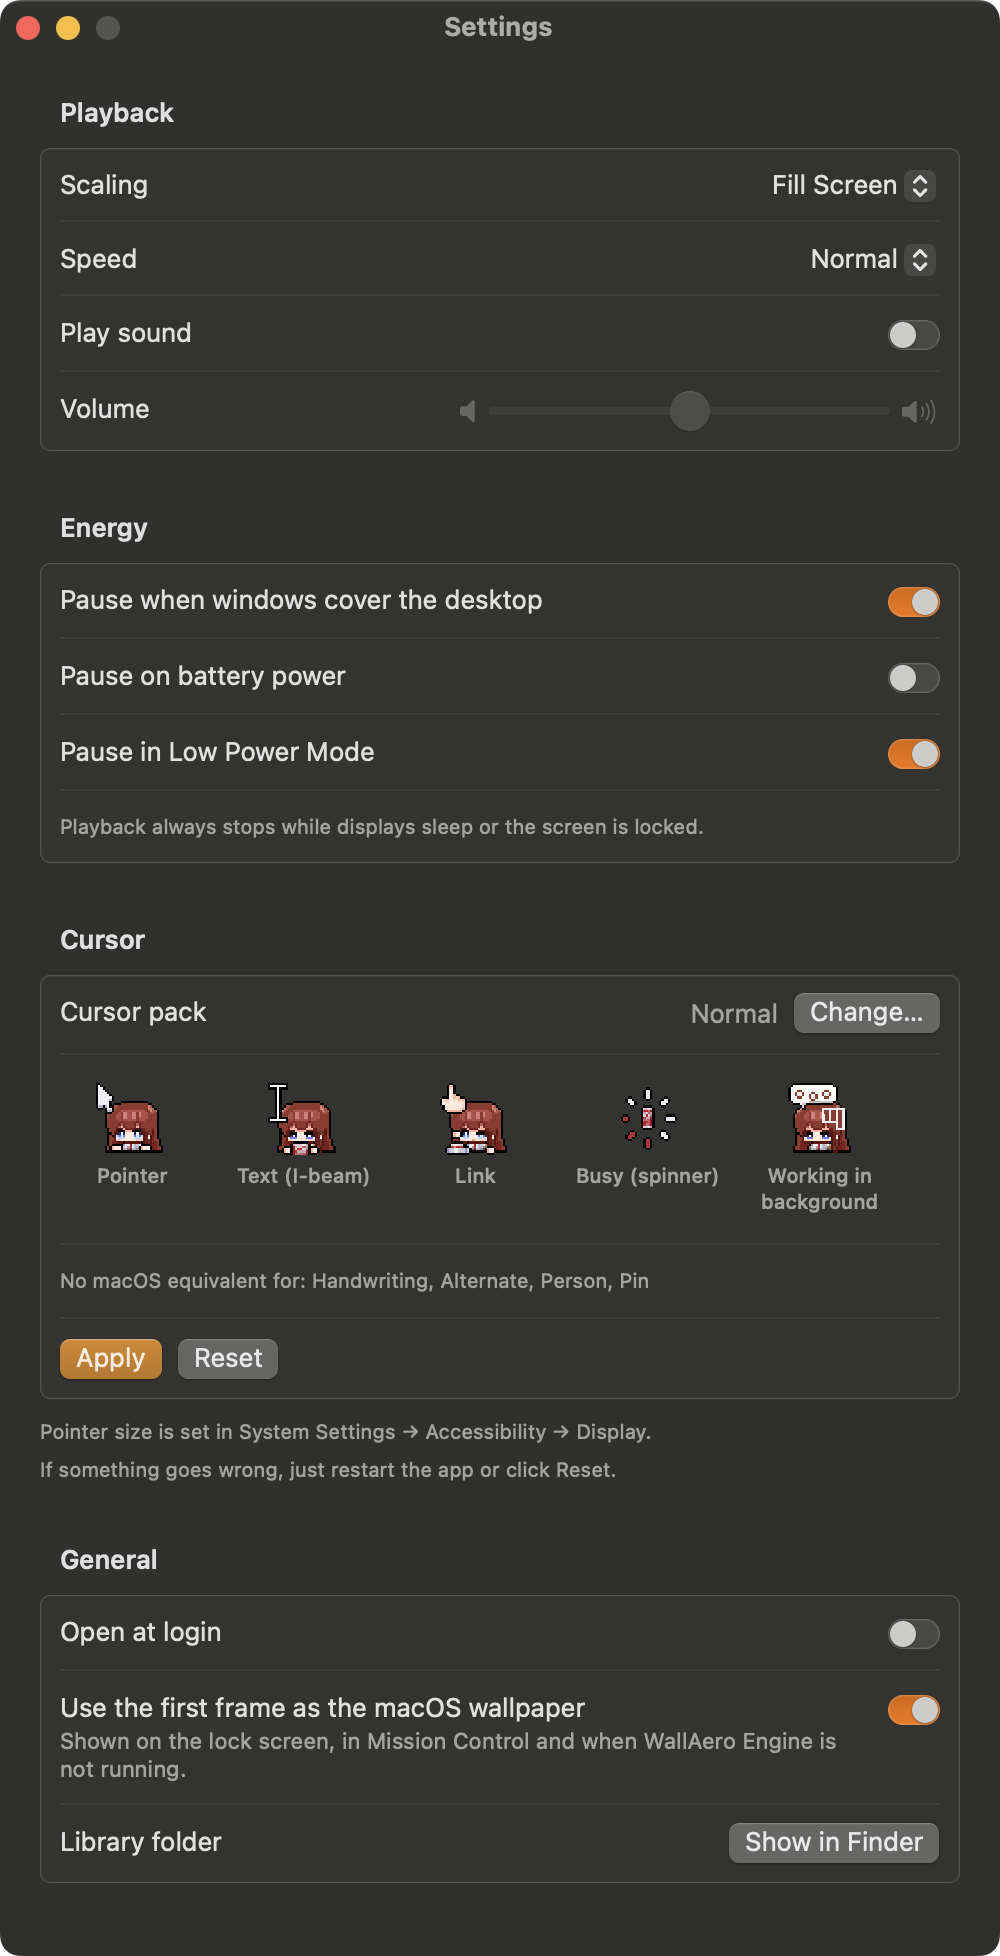
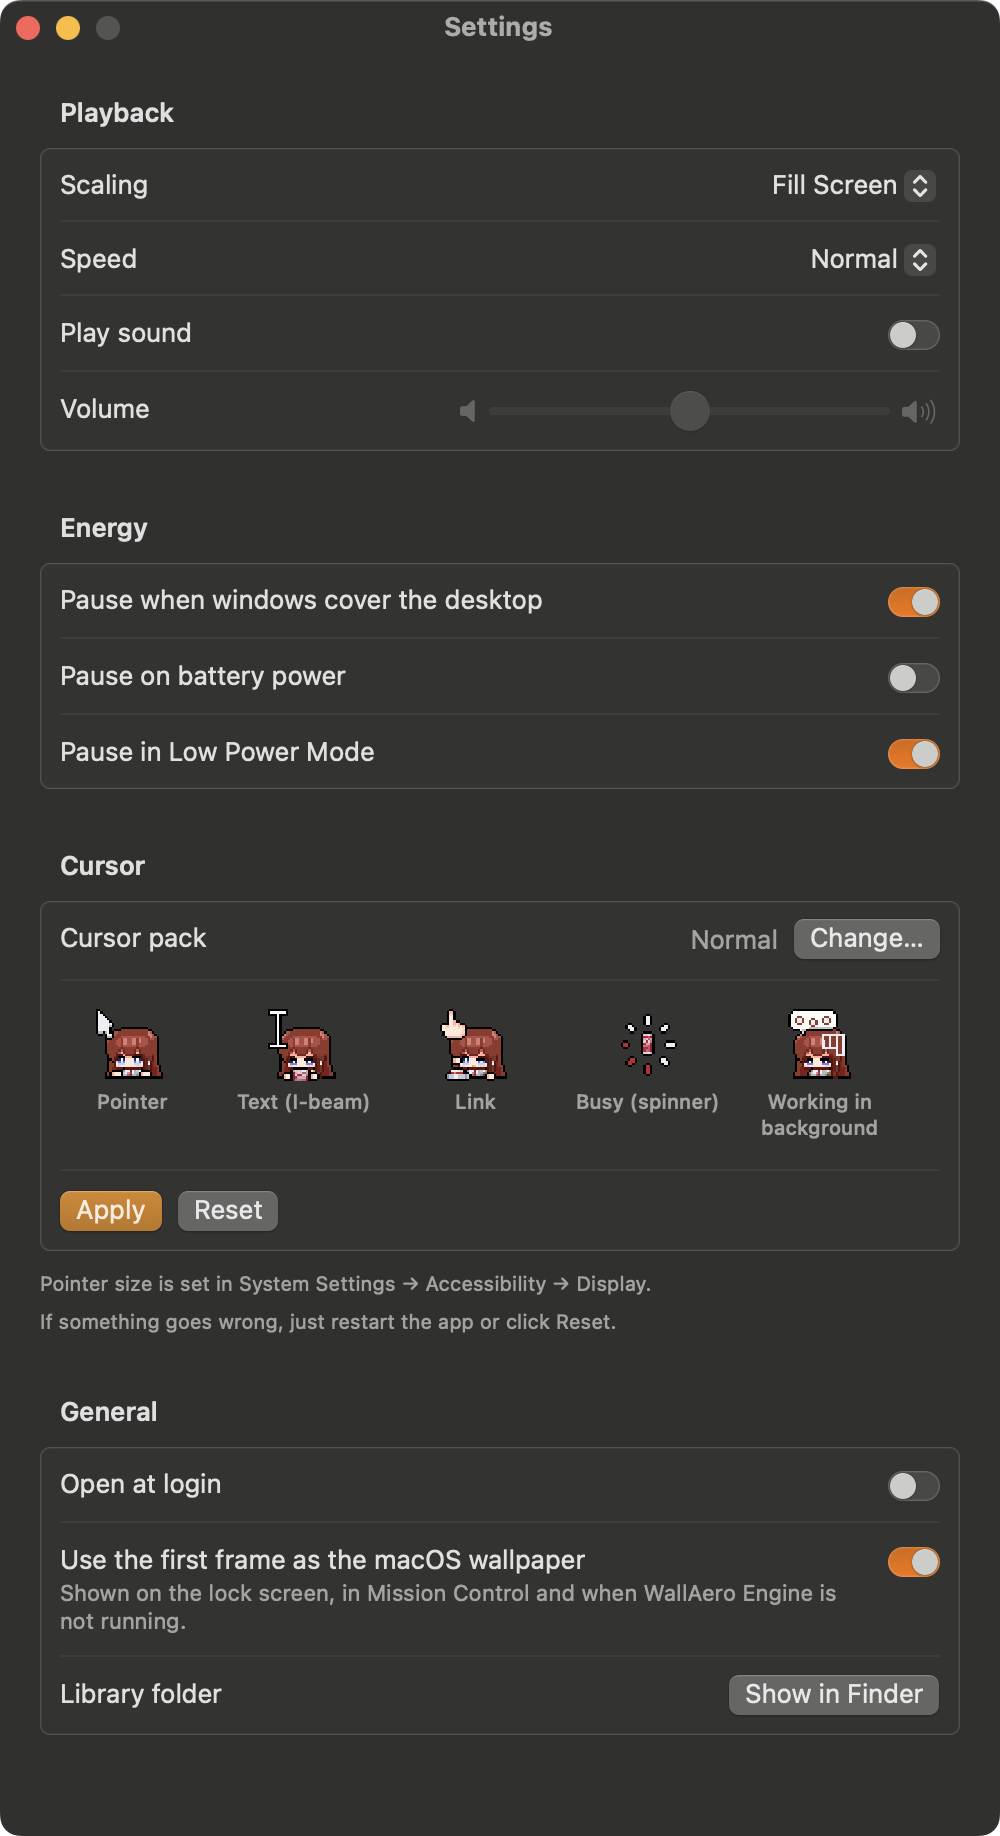
Remove two hints from the settings
- The "No macOS equivalent for: …" line under the cursor preview and
  the note that playback always stops while displays sleep or the
  screen is locked; their strings and the now unused property go too
- README and screenshots follow

diff --git a/Sources/WallAeroEngine/UI/SettingsView.swift b/Sources/WallAeroEngine/UI/SettingsView.swift
@@ -38,10 +38,6 @@ struct SettingsView: View {
                 Toggle("Pause when windows cover the desktop", isOn: $preferences.pauseWhenCovered)
                 Toggle("Pause on battery power", isOn: $preferences.pauseOnBattery)
                 Toggle("Pause in Low Power Mode", isOn: $preferences.pauseInLowPowerMode)
-                // Inside the group, under the toggles: a grouped form's footer sits off to the right.
-                Text("Playback always stops while displays sleep or the screen is locked.")
-                    .font(.caption)
-                    .foregroundStyle(.secondary)
             }
 
             CursorSettingsSection()

diff --git a/Sources/WallAeroEngine/UI/CursorSettingsView.swift b/Sources/WallAeroEngine/UI/CursorSettingsView.swift
@@ -110,13 +110,6 @@ struct CursorSettingsSection: View {
                     .padding(.vertical, 4)
                 }
 
-                if !cursor.unmatchedNames.isEmpty {
-                    Text(String(format: NSLocalizedString("No macOS equivalent for: %@", comment: "Cursor settings"),
-                                cursor.unmatchedNames.joined(separator: ", ")))
-                        .font(.caption)
-                        .foregroundStyle(.secondary)
-                }
-
                 HStack {
                     Button("Apply", action: cursor.apply)
                         .buttonStyle(.borderedProminent)

diff --git a/Sources/WallAeroEngine/CursorSettings.swift b/Sources/WallAeroEngine/CursorSettings.swift
@@ -57,10 +57,6 @@ final class CursorSettings: ObservableObject {
 
     var mappedCount: Int { theme?.assignments.count ?? 0 }
 
-    var unmatchedNames: [String] {
-        (theme?.unmatchedFiles ?? []).map { $0.deletingPathExtension().lastPathComponent }
-    }
-
     /// Builds the animated previews, once per loaded pack. One cursor file can theme several
     /// macOS roles (all the resize variants, say); it is shown once, under its main role.
     private static func makePreviews(_ theme: CursorTheme) -> [CursorPreview] {

diff --git a/Sources/WallAeroEngine/ScreenshotMode.swift b/Sources/WallAeroEngine/ScreenshotMode.swift
@@ -37,7 +37,7 @@ enum ScreenshotMode {
             .environmentObject(manager)
             .environmentObject(importer)
         // Tall enough to show every section without scrolling.
-        let settingsHeight: CGFloat = 950
+        let settingsHeight: CGFloat = 890
         let settingsView = SettingsView(height: settingsHeight)
             .environmentObject(preferences)
             .environmentObject(library)

diff --git a/README.md b/README.md
@@ -86,7 +86,7 @@ If the pack has an `install.inf`, the mapping comes from it. Both common layouts
 | `SizeAll` | move, open hand and closed hand |
 | `Help` | the arrow with a question mark |
 
-`NWPen` (handwriting), `UpArrow` (alternate select), `Person` and `Pin` have no macOS equivalent: such files are listed under the preview and are not applied.
+`NWPen` (handwriting), `UpArrow` (alternate select), `Person` and `Pin` have no macOS equivalent, so such files are not applied.
 
 Good to know:
 
